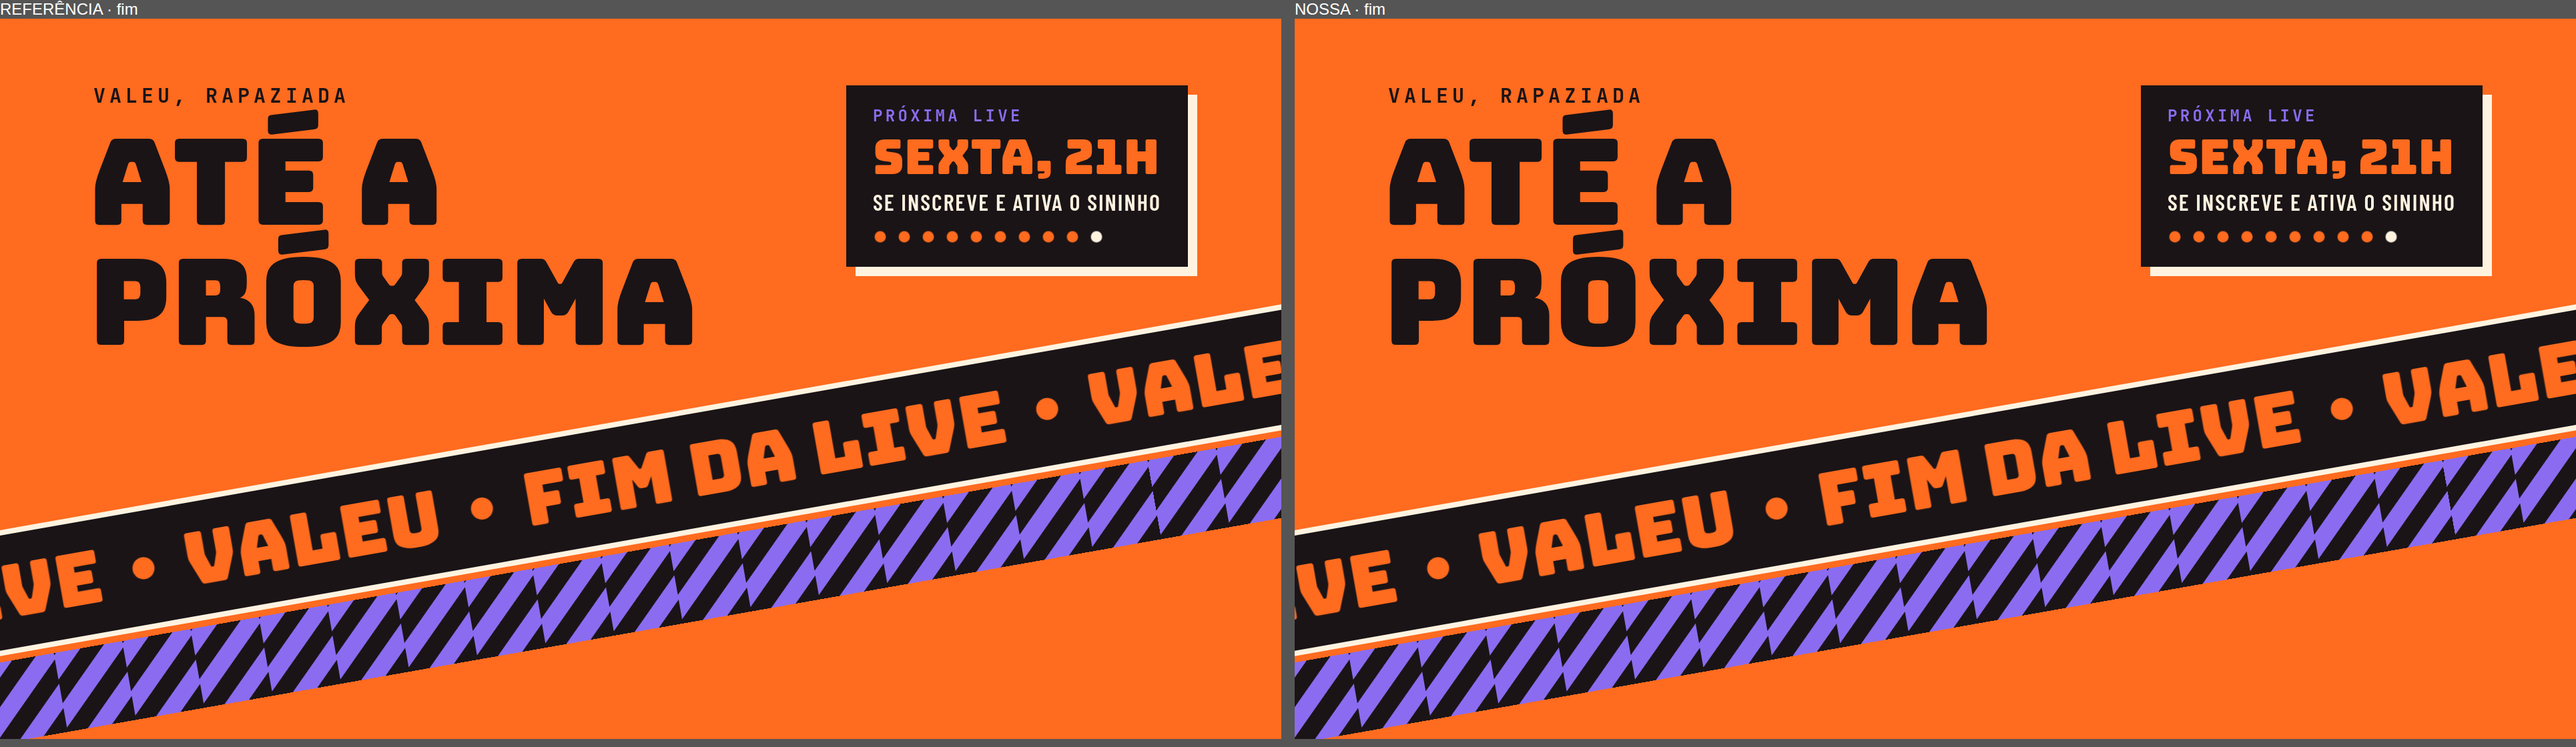
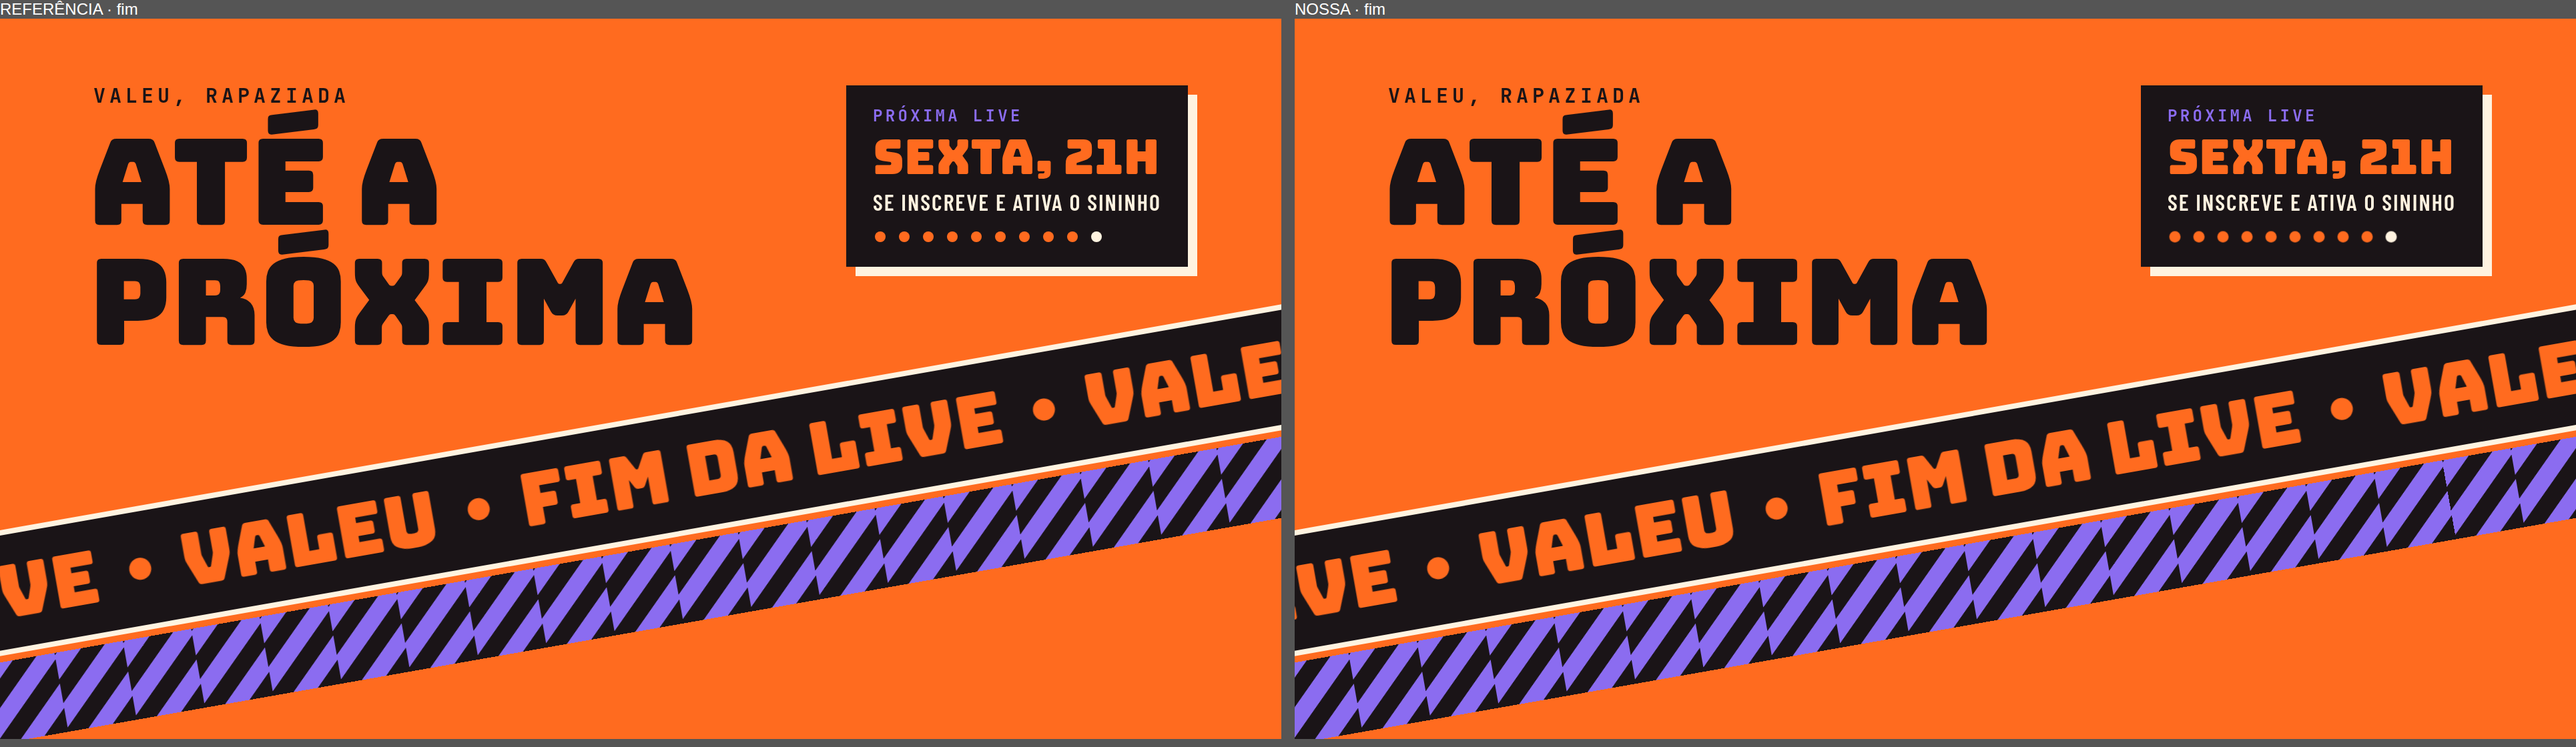
fix(telas): caixa girada e sombra creme em SVG, sem borda serrilhada (início e fim)
outline transparente + backface-visibility + translateZ(0) não resolveu:
o serrilhado vinha do box-shadow girado.

Changed region(s): [[0.0, 0.4688, 0.4974, 0.8125]]

diff --git a/src/telas/telas.css b/src/telas/telas.css
@@ -67,7 +67,9 @@
 .t-inicio__relogio { background: #1A1417; color: #FFF3E0; font: 700 170px/1 'JetBrains Mono', monospace; padding: 18px 36px 14px; box-shadow: 14px 14px 0 #8B6CF0; }
 .t-inicio__bolinhas { display: flex; justify-content: space-between; }
 .t-inicio__bolinha { width: 34px; height: 34px; box-sizing: border-box; border-radius: 50%; border: 4px solid #1A1417; }
-.t-inicio__logo { flex-shrink: 0; width: 500px; height: 500px; background: #1A1417; display: flex; flex-direction: column; align-items: center; justify-content: center; gap: 28px; animation: usFloat 6s ease-in-out infinite; box-shadow: 18px 18px 0 #FFF3E0; }
+.t-inicio__logo { flex-shrink: 0; width: 500px; height: 500px; background: #1A1417; display: flex; flex-direction: column; align-items: center; justify-content: center; gap: 28px; animation: usFloat 6s ease-in-out infinite; position: relative; }
+.t-inicio__logo-fundo { position: absolute; left: -4px; top: -4px; shape-rendering: geometricPrecision; }
+.t-inicio__logo > :not(svg) { position: relative; }
 .t-inicio__us { font: 600 330px/.74 'Barlow Condensed', sans-serif; color: #FF6B1F; padding-top: .04em; }
 .t-inicio__grade { display: grid; grid-template-columns: repeat(5, 28px); gap: 16px; }
 .t-inicio__grade > div { width: 28px; height: 28px; border-radius: 50%; background: #FF6B1F; }
@@ -76,7 +78,8 @@
 
 /* ===== Fim (Telas Live linhas 78-100) ===== */
 .t-fim { position: absolute; inset: 0; background: #FF6B1F; overflow: hidden; }
-.t-fim__faixa { position: absolute; left: -300px; top: 600px; width: 2600px; height: 170px; background: #1A1417; transform: rotate(-10deg); display: flex; align-items: center; overflow: hidden; box-shadow: 0 0 0 8px #FFF3E0; }
+.t-fim__moldura { position: absolute; left: -312px; top: 588px; transform: rotate(-10deg); shape-rendering: geometricPrecision; }
+.t-fim__faixa { position: absolute; left: -300px; top: 600px; width: 2600px; height: 170px; transform: rotate(-10deg); display: flex; align-items: center; overflow: hidden; }
 .t-fim__letreiro { display: flex; white-space: nowrap; font: 400 110px/1 'Bungee', sans-serif; color: #FF6B1F; animation: usMarq 14s linear infinite; width: max-content; }
 .t-fim__listra { position: absolute; left: -300px; top: 790px; width: 2600px; height: 120px; transform: rotate(-10deg); background: repeating-linear-gradient(-45deg, #1A1417 0 26px, #8B6CF0 26px 52px); background-size: 104px 120px; animation: usStripe 1.6s linear infinite; }
 .t-fim__conteudo { position: absolute; left: 140px; right: 140px; top: 100px; display: flex; align-items: flex-start; justify-content: space-between; gap: 60px; }

diff --git a/src/telas/TelaInicio.tsx b/src/telas/TelaInicio.tsx
@@ -32,6 +32,11 @@ export function TelaInicio({ estado }: PropsTela) {
           </div>
         </div>
         <div className="t-inicio__logo">
+          {/* quadrado e sombra em SVG: com background/box-shadow a borda girada sai serrilhada no OBS */}
+          <svg className="t-inicio__logo-fundo" width={526} height={526} viewBox="-4 -4 526 526" aria-hidden="true">
+            <rect x={18} y={18} width={500} height={500} fill="#FFF3E0" />
+            <rect x={0} y={0} width={500} height={500} fill="#1A1417" />
+          </svg>
           <div className="t-inicio__us">US</div>
           <div className="t-inicio__grade">
             {Array.from({ length: 10 }, (_, i) => (

diff --git a/src/telas/TelaFim.tsx b/src/telas/TelaFim.tsx
@@ -4,6 +4,11 @@ import { Linha } from './Letreiro';
 export function TelaFim({ estado }: PropsTela) {
   return (
     <div className="t-fim">
+      {/* faixa e contorno creme em SVG: com background/box-shadow a borda girada sai serrilhada no OBS */}
+      <svg className="t-fim__moldura" width={2624} height={194} viewBox="0 0 2624 194" aria-hidden="true">
+        <rect x={4} y={4} width={2616} height={186} fill="#FFF3E0" />
+        <rect x={12} y={12} width={2600} height={170} fill="#1A1417" />
+      </svg>
       <div className="t-fim__faixa">
         <div className="t-fim__letreiro">
           <Linha itens={['FIM DA LIVE', 'VALEU']} repeticoes={3} />
